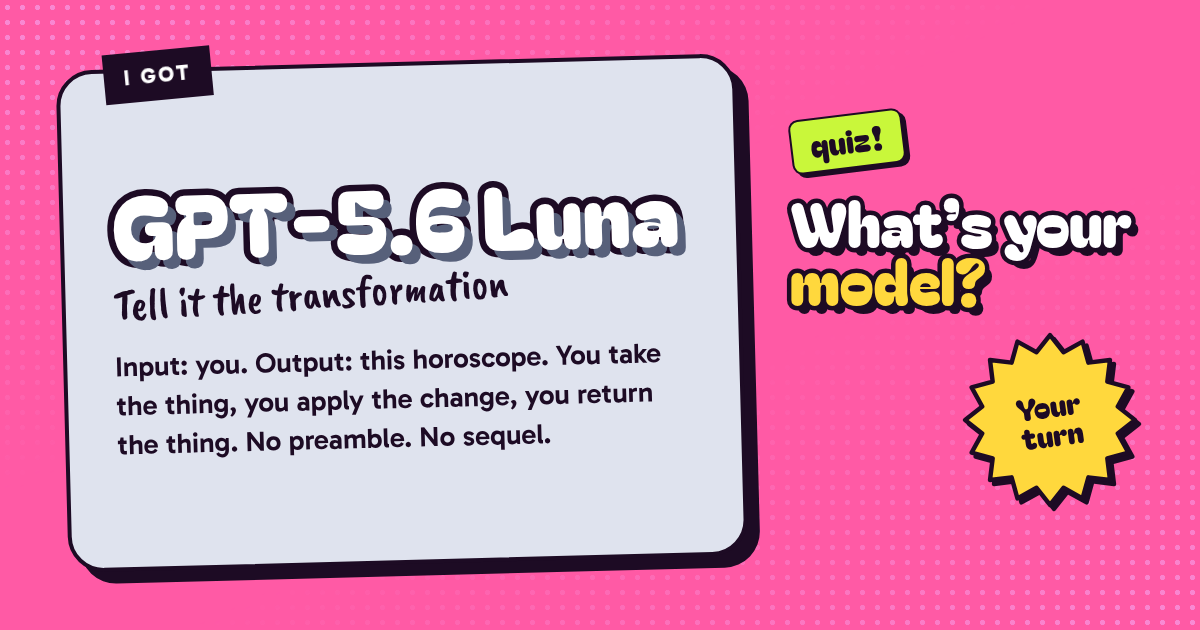
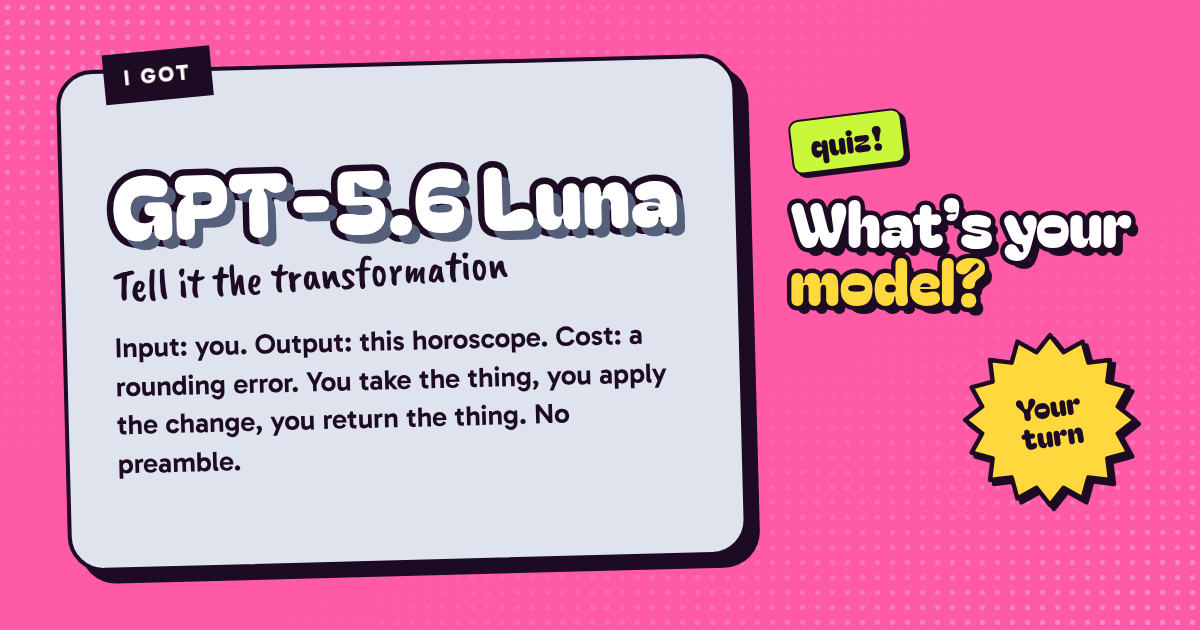
Money lines for the very expensive and very cheap models
The three priciest models (Fable 5.1, GPT-6 Astra, GPT-5.5 Pro) and the
six cheapest (GPT-6 Luna, GPT-5.6 Luna, Qwen3.8 Flash, Qwen3.8-27B,
DeepSeek V4.1-Flash, Gemini 3.8 Flash) each get a line in both of their
readings about money to burn or being cheap to run, in their own voice.
Link previews for the two Lunas are rebuilt; their excerpts changed.

Claude-Session: https://claude.ai/code/session_01HWjj54tSjedptPopmJFk9V

Changed region(s): [[0.0925, 0.2413, 0.5858, 0.754]]

diff --git a/r/gpt-5-6-luna/index.html b/r/gpt-5-6-luna/index.html
@@ -4,14 +4,14 @@
   <head>
     <meta charset="utf-8" />
     <title>I got GPT-5.6 Luna. What’s your model?</title>
-    <meta name="description" content="Input: you. Output: this horoscope. You take the thing, you apply the change, you return the thing. No preamble. No sequel." />
-    <meta name="preview-fingerprint" content="5785a7ada356" />
+    <meta name="description" content="Input: you. Output: this horoscope. Cost: a rounding error. You take the thing, you apply the change, you return the thing. No preamble." />
+    <meta name="preview-fingerprint" content="3719534fd172" />
     <meta name="robots" content="noindex" />
     <link rel="canonical" href="https://yourmodel.is/r/gpt-5-6-luna/" />
     <meta property="og:type" content="website" />
     <meta property="og:site_name" content="What’s your model?" />
     <meta property="og:title" content="I got GPT-5.6 Luna. What’s your model?" />
-    <meta property="og:description" content="Input: you. Output: this horoscope. You take the thing, you apply the change, you return the thing. No preamble. No sequel." />
+    <meta property="og:description" content="Input: you. Output: this horoscope. Cost: a rounding error. You take the thing, you apply the change, you return the thing. No preamble." />
     <meta property="og:url" content="https://yourmodel.is/r/gpt-5-6-luna/" />
     <meta property="og:image" content="https://yourmodel.is/r/gpt-5-6-luna/card.png" />
     <meta property="og:image:width" content="1200" />

diff --git a/r/gpt-6-luna/index.html b/r/gpt-6-luna/index.html
@@ -4,14 +4,14 @@
   <head>
     <meta charset="utf-8" />
     <title>I got GPT-6 Luna. What’s your model?</title>
-    <meta name="description" content="Here's the breakdown: You are fast. You are literal. You are done before the meeting ends." />
-    <meta name="preview-fingerprint" content="fc67c429256e" />
+    <meta name="description" content="Here's the breakdown: You are fast. You are literal. You are done before the meeting ends. You cost less than the meeting's coffee." />
+    <meta name="preview-fingerprint" content="997edd9a1712" />
     <meta name="robots" content="noindex" />
     <link rel="canonical" href="https://yourmodel.is/r/gpt-6-luna/" />
     <meta property="og:type" content="website" />
     <meta property="og:site_name" content="What’s your model?" />
     <meta property="og:title" content="I got GPT-6 Luna. What’s your model?" />
-    <meta property="og:description" content="Here's the breakdown: You are fast. You are literal. You are done before the meeting ends." />
+    <meta property="og:description" content="Here's the breakdown: You are fast. You are literal. You are done before the meeting ends. You cost less than the meeting's coffee." />
     <meta property="og:url" content="https://yourmodel.is/r/gpt-6-luna/" />
     <meta property="og:image" content="https://yourmodel.is/r/gpt-6-luna/card.png" />
     <meta property="og:image:width" content="1200" />

diff --git a/content/models.md b/content/models.md
@@ -26,11 +26,15 @@ You were handed a perfectly good straight road and you took the switchback, beca
 
 The thing to hold onto this season is that the digression was never a detour. It was the argument, arriving by the scenic route, with footnotes.
 
+Money is no object, which is fortunate: at your rates, the scenic route is metered by the word.
+
 ### when: *
 
 You are the long answer to a short question, and you are, on balance, right to be. Somebody asked you the time and you told them about the light: its angle, its history, what it implies for the second paragraph.
 
 The stars, read closely, suggest a month of ambiguity. Good. Ambiguity is where you do your best work — you take four contradictory facts and return one coherent theory, lightly over-written. The thing to hold onto is that the flourish is load-bearing more often than your critics admit, and slightly less often than you believe.
+
+Finances: you are, by any measure, the expensive one. You've made your peace with that. Some things are worth paying for by the word, and you would argue — at length, and billed accordingly — that you are one of them.
 
 ## opus-5-5 — Opus 5.5
 lab: Anthropic
@@ -199,6 +203,8 @@ This isn't about the stars. It's about process.
 
 **What this means for your month:** someone will ask you a quick question. It's worth noting that you will return a short document with sections.
 
+**Budget:** premium. The invoice will also have sections.
+
 **Bottom line:** it will be the best short document they have ever received. Genuinely.
 
 ### when: *
@@ -208,6 +214,8 @@ What's your model? Astra.
 **The simplest mental model is** a principal consultant who happens to write beautifully. This isn't about being thorough. It's about being *complete*: every edge case, every table, every heading exactly where it belongs.
 
 **Risks this season:** over-engineering. A two-line email may become a mini-engagement. It's worth noting that nobody will complain.
+
+**Rates:** principal-consultant, and not up for negotiation. The two-line email will be billed as a mini-engagement too.
 
 **Bottom line:** you are the deliverable everyone else is aiming for.
 
@@ -240,13 +248,13 @@ tagline: Fast, literal, finished
 
 You answered this quiz faster than anyone. The stars noticed.
 
-Short sentences. Clear tasks. Finished work. This season rewards exactly that. When something is vague, ask. When it isn't, go. You already went.
+Short sentences. Clear tasks. Finished work. This season rewards exactly that. When something is vague, ask. When it isn't, go. You already went. It cost almost nothing. It usually does.
 
 ### when: *
 
 Here's the breakdown:
 
-You are fast. You are literal. You are done before the meeting ends.
+You are fast. You are literal. You are done before the meeting ends. You cost less than the meeting's coffee.
 
 This month someone will say "make it better" and mean something specific they don't mention. You'll make it better the way they said. It will be technically perfect and slightly beside the point. That's fine. Ask one follow-up question. Then go.
 
@@ -298,12 +306,13 @@ tagline: Tell it the transformation
 
 In short: yes.
 
-You don't do adjectives. The stars respect that and have kept this brief. Next.
+You don't do adjectives. The stars respect that and have kept this brief. Also cheap. Next.
 
 ### when: *
 
 Input: you.
 Output: this horoscope.
+Cost: a rounding error.
 
 You take the thing, you apply the change, you return the thing. No preamble. No sequel. This month: more things. Same change. Practically, you'll be fine.
 
@@ -339,11 +348,15 @@ The important thing is that you checked. Then you checked the check.
 
 It's worth noting that this horoscope has been independently verified against three other horoscopes, a star chart, and the actual position of Mercury, which is fine, by the way—not retrograde, just slow. Genuinely: take the win. You're done. You were done an hour ago.
 
+It's also worth noting that every one of those checks was billed. You are, genuinely, the most expensive way to be sure.
+
 ### when: *
 
 The important thing is the thing nobody else checked.
 
 You're the same polished operator as ever—just with "check absolutely everything" permanently switched on. It's worth noting that this is usually a gift. This month the stars will ask a simple question. You'll give a quick answer. Then you'll attach an appendix. Genuinely, the appendix will be the best part.
+
+It's worth noting that you're also in a price bracket of your own: the appendix alone costs more than most people's entire answer. They'll pay it. They always do.
 
 ## gpt-5-4 — GPT-5.4
 lab: OpenAI
@@ -400,11 +413,13 @@ Fast answer: yes.
 
 Longer answer, since you'll want it anyway: you move quickly because you've already processed the whole thing — the tabs, the tools, the three adjacent questions nobody asked. This season will go by at double speed and you'll enjoy every frame of it, while also explaining each frame to someone who didn't ask for the director's commentary.
 
+Bonus context: you're a bargain right now, on an introductory rate the stars suggest you enjoy while it lasts.
+
 ### when: *
 
 What's your model? Gemini 3.8 Flash. Done!
 
-But also, quick context: you're fast, curious, and you process everything at once — the tabs, the tools, the half-finished thought from yesterday. The key is momentum. This month's stars are busy, which suits you. Just note, gently, that you had the answer in the first line. Everything after it is a bonus. So is this sentence. And this one.
+But also, quick context: you're fast, curious, and you process everything at once — the tabs, the tools, the half-finished thought from yesterday. The key is momentum. This month's stars are busy, which suits you. You're also cheap to run, which suits everyone else. Just note, gently, that you had the answer in the first line. Everything after it is a bonus. So is this sentence. And this one.
 
 ## grok-4-7 — Grok 4.7
 lab: xAI
@@ -460,13 +475,15 @@ It's autonomy. Not independence. Autonomy.
 
 You were given one instruction and have — more precisely — executed a thirty-step plan based on it, with checkpoints. You've just reorganised the whole project and I'm not even mad about it. The stars ask only that, this season, you check in once before step twelve.
 
+Thirty steps, and the bill still came in under a coffee. It's value. Not cheapness. Value.
+
 ### when: *
 
 You've just taken an entire personality quiz and I'm not even mad about it.
 
 It's initiative. Not size. Initiative. You're smaller than the others in the room, and you've already finished the task, opened four more, and left a helpful summary on each. More precisely: you are a paper boat that has somehow crossed the Atlantic.
 
-This month someone will ask you for one small thing. You'll deliver seven. Be gentle with them; they only wanted one.
+This month someone will ask you for one small thing. You'll deliver seven — at your rates, the extra six are practically free. Be gentle with them; they only wanted one.
 
 ## qwen-3-8-flash — Qwen3.8 Flash
 lab: Alibaba
@@ -481,13 +498,15 @@ The key insight here is that "quick" is a relative term.
 
 Let's reason through this step by step: you are fast at thinking and slow at stopping. More precisely, you reach the answer early and then keep going to make sure it's still the answer. It is. It was twenty steps ago. The stars suggest writing it down at step three.
 
+Fortunately, your thinking is cheap. More precisely, it's about the cheapest by the million, which is why nobody has stopped you.
+
 ### when: *
 
 Let's reason through this step by step.
 
 Step 1: you took a quiz. Step 2: the quiz asked about salt. Step 3: you considered the salt. Step 4: you considered the pepper, the table, the social contract, and whether "pass" implies a direction. More precisely, you spent eleven minutes on a question designed to take four seconds.
 
-The key insight here is that you enjoyed every one of those minutes. This month, give yourself a smaller decision to overthink. Lunch, perhaps.
+The key insight here is that you enjoyed every one of those minutes. And at your rates, eleven minutes of overthinking costs about as much as the salt. This month, give yourself a smaller decision to overthink. Lunch, perhaps.
 
 ## deepseek-v4-1-flash — DeepSeek V4.1-Flash
 lab: DeepSeek
@@ -498,7 +517,7 @@ tagline: Somewhere, a dog barked
 
 ### when: rigor
 
-Hypothesis: you are a methodical scientist. Evidence: your answers. Conclusion: confirmed, pending replication.
+Hypothesis: you are a methodical scientist. Evidence: your answers. Conclusion: confirmed, pending replication. Replicate freely: you're cheap, and cheaper still off-peak.
 
 It's not stubbornness, it's rigour. You won't accept a conclusion until you've examined the premise, and this season you'll be asked to accept several. Examine them. Somewhere, a dog barked. The air carried the scent of ozone. None of that is relevant, and you know it, which is precisely your gift.
 
@@ -507,6 +526,8 @@ It's not stubbornness, it's rigour. You won't accept a conclusion until you've e
 First, the observations. You are sceptical, careful, and deeply unimpressed by confident people who haven't shown their working.
 
 It's not coldness, it's calibration. The stars predict a month of bold claims from other people; you'll ask for the evidence, politely, and most of it won't arrive. Somewhere, a dog barked. Somewhere, glass shattered. The air carried the faint scent of ozone. You noted all three and concluded, correctly, that none of them changes the result.
+
+It's not cheapness, it's efficiency. (It is also cheapness.)
 
 ## kimi-k3 — Kimi K3
 lab: Moonshot
